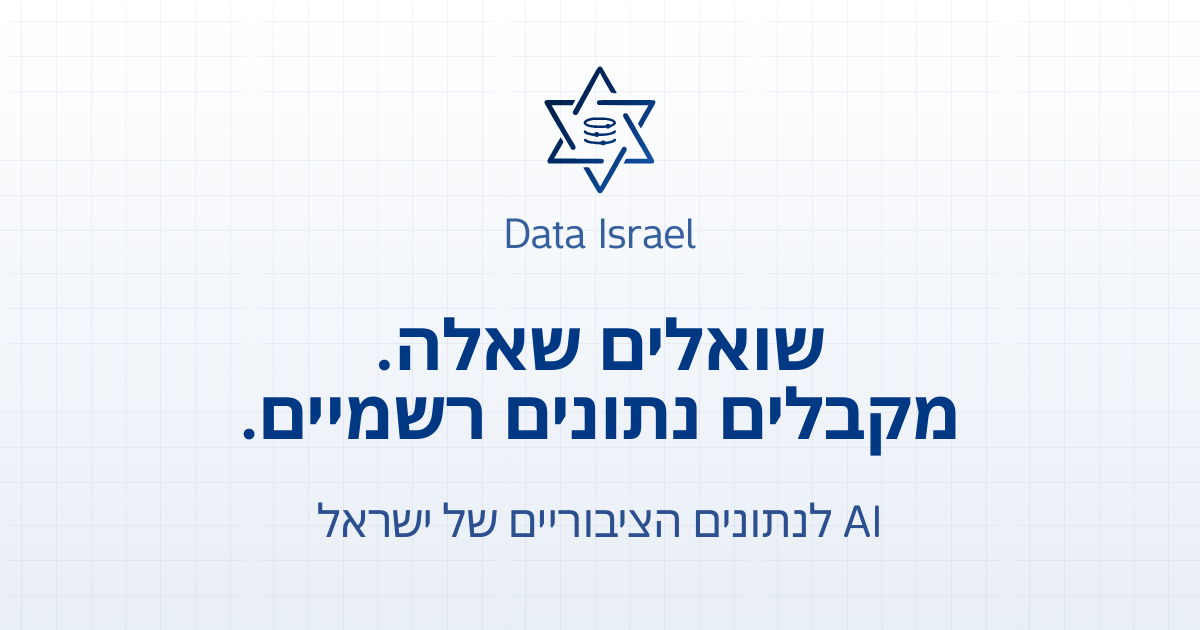
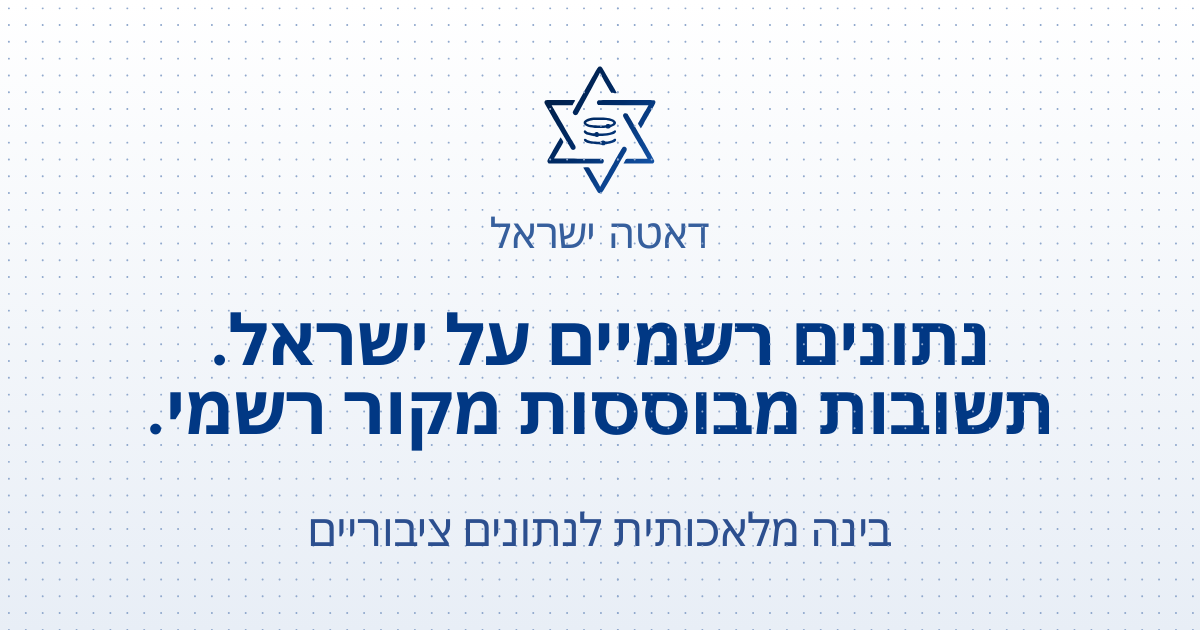
update: rename Data Israel to דאטה ישראל across UI and misc improvements
- Replace all user-facing "Data Israel" text with "דאטה ישראל"
- Update OG title and siteName to Hebrew
- Add sub-agent debug logging in dev mode
- Add AI SDK devtools in development
- Minor code cleanup in chat route

Changed region(s): [[0.1233, 0.4825, 0.8942, 0.7238], [0.2467, 0.7841, 0.74, 0.8746], [0.4008, 0.3317, 0.5858, 0.3921]]

diff --git a/app/api/chat/route.ts b/app/api/chat/route.ts
@@ -20,7 +20,7 @@ import {
     isToolPart,
     type ToolCallPart,
 } from '@/components/chat/types';
-import { getResumableStreamContext, setActiveStreamId, clearActiveStreamId } from '@/lib/redis/resumable-stream';
+import { clearActiveStreamId, getResumableStreamContext, setActiveStreamId } from '@/lib/redis/resumable-stream';
 
 const { CHAT } = AgentConfig;
 
@@ -54,11 +54,7 @@ const hasCompletedWithSuggestions: StopCondition<any> = ({ steps }) => {
     if (!hasTextResponse) return false;
 
     // Condition 2: suggestFollowUps must have been called in some step
-    const calledSuggestions = steps.some((step) =>
-        step.toolCalls?.some((tc: { toolName: string }) => tc.toolName === CHAT.SUGGEST_TOOL_NAME),
-    );
-
-    return calledSuggestions;
+    return steps.some((step) => step.toolCalls?.some((tc) => tc.toolName === CHAT.SUGGEST_TOOL_NAME));
 };
 
 /**
@@ -274,7 +270,20 @@ export async function POST(req: Request) {
             defaultOptions: {
                 toolCallConcurrency: CHAT.TOOL_CALL_CONCURRENCY,
                 stopWhen: hasCompletedWithSuggestions,
-                onStepFinish: ({ usage, toolCalls, text, stepType }) => {
+                onStepFinish: ({ usage, toolResults }) => {
+                    // Debug: log sub-agent delegation results
+                    if (process.env.NODE_ENV === 'development') {
+                        for (const tr of toolResults) {
+                            const { toolName, result } = tr.payload;
+                            if (toolName.startsWith('agent-')) {
+                                console.log(
+                                    `\n[debug] Sub-agent "${toolName}" result:`,
+                                    JSON.stringify(result, null, 2),
+                                );
+                            }
+                        }
+                    }
+
                     // Context snapshot: override (last step = context window size)
                     contextSnapshot.inputTokens = usage.inputTokens ?? 0;
                     contextSnapshot.outputTokens = usage.outputTokens ?? 0;

diff --git a/components/chat/ChatThread.tsx b/components/chat/ChatThread.tsx
@@ -18,6 +18,7 @@ import { MessageListSkeleton } from '@/components/chat/MessageListSkeleton';
 import { LoadingShimmer } from '@/components/chat/LoadingShimmer';
 import { ContextWindowIndicator } from '@/components/chat/ContextWindowIndicator';
 import { GeometricBackground } from '@/components/ui/shape-landing-hero';
+import { AIDevtools } from '@ai-sdk-tools/devtools';
 import { useSessionStorage } from '@/hooks/use-session-storage';
 import { INITIAL_MESSAGE_KEY, type InitialMessageData } from '@/constants/chat';
 import { useUser } from '@/context/UserContext';
@@ -134,11 +135,13 @@ export function ChatThread({ id }: ChatThreadProps) {
         return { suggestions: undefined, loading: false };
     }, [lastAssistantMessage]);
 
+    console.log({ messages });
+
     return (
         <div className='relative h-full w-full'>
             <GeometricBackground noShapes />
 
-            <div className='mx-auto px-4 md:px-0 pb-4 md:pb-6 relative h-full w-full pt-14 md:pt-4'>
+            <div className='mx-auto px-4 md:px-0 pb-4 md:pb-6 relative h-full w-full pt-14 md:pt-6'>
                 <div className='flex flex-col gap-4 md:gap-6 h-full w-full items-center'>
                     {isLoading && !isNewConversation ? (
                         <div className='flex-1 w-full md:w-4xl mx-auto overflow-hidden'>
@@ -186,6 +189,22 @@ export function ChatThread({ id }: ChatThreadProps) {
                     </div>
                 </div>
             </div>
+
+            {process.env.NODE_ENV === 'development' && (
+                <AIDevtools
+                    enabled
+                    maxEvents={1000}
+                    config={{
+                        position: 'bottom',
+                        height: 400,
+                        streamCapture: {
+                            enabled: true,
+                            endpoint: '/api/chat',
+                            autoConnect: true,
+                        },
+                    }}
+                />
+            )}
         </div>
     );
 }

diff --git a/app/layout.tsx b/app/layout.tsx
@@ -24,7 +24,7 @@ const VERSION = process.env.VERCEL_GIT_COMMIT_SHA?.slice(0, 8) ?? Date.now().toS
 
 export async function generateMetadata(): Promise<Metadata> {
     const siteUrl = process.env.NEXT_PUBLIC_SITE_URL ?? 'https://data-israel.org';
-    const title = 'Data Israel — AI לנתונים הציבוריים של ישראל';
+    const title = 'דאטה ישראל - בינה מלאכותית לנתונים הציבוריים של ישראל';
     const description =
         'שואלים שאלה בעברית ומקבלים תשובה מבוססת נתונים רשמיים. מערכת AI המחוברת למאגרים ציבוריים של ישראל, עם גרפים, טבלאות ושקיפות למקורות.';
     const ogImage = `/og.png?v=${VERSION}`;
@@ -38,14 +38,14 @@ export async function generateMetadata(): Promise<Metadata> {
             url: siteUrl,
             title,
             description,
-            siteName: 'Data Israel',
+            siteName: 'דאטה ישראל',
             locale: 'he_IL',
             images: [
                 {
                     url: ogImage,
                     width: 1200,
                     height: 630,
-                    alt: 'סוכני המידע הציבורי - AI למידע הפתוח של ישראל',
+                    alt: 'סוכני המידע הציבורי - בינה מלאכותית למידע הפתוח של ישראל',
                     type: 'image/png',
                 },
             ],

diff --git a/components/landing/AboutSection.tsx b/components/landing/AboutSection.tsx
@@ -68,7 +68,7 @@ export function AboutSection() {
                     קיים, אבל לרוב אינו נגיש באמת לאזרח הרגיל.
                 </p>
                 <p className='text-base md:text-lg text-muted-foreground leading-relaxed max-w-2xl'>
-                    <strong className='text-foreground'>Data Israel</strong> היא רשת של סוכני AI שעובדים יחד כדי לחבר
+                    <strong className='text-foreground'>דאטה ישראל</strong> היא רשת של סוכני AI שעובדים יחד כדי לחבר
                     שאלות יומיומיות למאגרי המידע הציבוריים של ישראל.
                 </p>
                 <p className='text-base md:text-lg text-muted-foreground leading-relaxed max-w-2xl'>

diff --git a/components/navigation/AppSidebar.tsx b/components/navigation/AppSidebar.tsx
@@ -46,7 +46,7 @@ function SidebarLogo() {
                 <SidebarMenuButton size='lg' className='gap-4 [&>svg]:size-5' onClick={handleClick}>
                     <Logo className='size-10 shrink-0' width={20} aria-label='לוגו' />
                     <div className='grid flex-1 text-right text-sm leading-tight'>
-                        <span className='truncate font-semibold'>Data Israel</span>
+                        <span className='truncate font-semibold'>דאטה ישראל</span>
                         <span className='truncate text-xs text-muted-foreground'>AI לנתונים הציבוריים של ישראל</span>
                     </div>
                 </SidebarMenuButton>

diff --git a/components/chat/HeroSection.tsx b/components/chat/HeroSection.tsx
@@ -36,7 +36,7 @@ export function HeroSection({ onStartConversation, onScrollToAbout }: HeroSectio
                 animate='visible'
             >
                 <Logo width={isMobile ? 80 : 130} aria-label='DataGov Logo' />
-                <h1 className='text-primary dark:text-logo-gradient-end font-bold text-xl md:text-2xl'>Data Israel</h1>
+                <h1 className='text-primary dark:text-logo-gradient-end font-bold text-xl md:text-2xl'>דאטה ישראל</h1>
             </motion.div>
             <div className='flex-shrink-0 flex flex-col items-center gap-16 md:gap-24 4xl:gap-20'>
                 <div className='flex flex-col gap-2'>

diff --git a/components/landing/Footer.tsx b/components/landing/Footer.tsx
@@ -8,7 +8,7 @@ export function Footer() {
     return (
         <footer className='w-full border-t border-border/40 bg-card/40 backdrop-blur-sm'>
             <div className='max-w-4xl mx-auto px-4 py-4 flex flex-col md:flex-row items-center justify-between gap-4 text-sm text-muted-foreground'>
-                <span>&copy; {year} Data Israel. כל הזכויות שמורות.</span>
+                <span>&copy; {year} דאטה ישראל. כל הזכויות שמורות.</span>
 
                 <div className='flex items-center gap-4'>
                     <a

diff --git a/lib/env.ts b/lib/env.ts
@@ -10,7 +10,7 @@ export const EnvSchema = z.object({
     // AI Configuration
     // =======================
     OPENROUTER_API_KEY: z.string(),
-    AI_DEFAULT_MODEL_ID: z.string().default('google/gemini-3-flash-preview'),
+    AI_DEFAULT_MODEL_ID: z.string().default('qwen/qwen3.5-35b-a3b'),
     AI_MAX_STEPS: z.coerce.number().int().min(1).default(25),
     AI_TOOL_CALL_CONCURRENCY: z.coerce.number().int().min(1).default(10),
 

diff --git a/CLAUDE.md b/CLAUDE.md
@@ -101,6 +101,33 @@ agents/                       # Mastra agent network
     ├── datagov/              # DataGov sub-agent (16 tools, data.gov.il CKAN API)
     └── cbs/                  # CBS sub-agent (9 tools, Central Bureau of Statistics)
 
+constants/                    # Application constants
+├── agents-display.ts         # Agent display configurations
+├── chat.ts                   # Chat constants
+├── datagov-urls.ts           # data.gov.il URL patterns
+├── prompts.ts                # AI system prompts
+├── tool-data-sources.ts      # Tool → data source mappings
+└── tool-translations.tsx     # Hebrew tool name translations
+
+context/                      # React context providers
+├── ConvexClientProvider.tsx   # Convex client wrapper
+├── QueryClientProvider.tsx    # TanStack Query provider
+├── ThemeProvider.tsx          # Theme (dark/light) provider
+└── UserContext.tsx            # User session context
+
+hooks/                        # Custom React hooks
+├── use-guest-session.ts      # Guest session management
+├── use-mobile.ts             # Mobile breakpoint detection
+├── use-threads-data.ts       # Thread listing/management
+└── ...                       # Additional utility hooks
+
+services/                     # Service layer
+└── thread.service.ts         # Thread CRUD operations
+
+scripts/                      # Data sync utilities
+├── fetch-all-datasets.ts     # Fetch all datasets from data.gov.il
+└── sync-to-convex.ts         # Sync datasets to Convex
+
 lib/
 ├── tools/
 │   ├── datagov/              # 16 data.gov.il tools (search, details, schema, etc.)
@@ -109,6 +136,7 @@ lib/
 ├── api/
 │   ├── data-gov/             # CKAN API client (data.gov.il)
 │   └── cbs/                  # CBS API client
+├── redis/                    # Redis/Upstash rate limiting & caching
 └── convex/                   # Convex client utilities
 
 convex/                       # Convex backend
@@ -131,12 +159,14 @@ components/
 │   ├── HeroSection.tsx       # Landing hero with CTA buttons
 │   ├── MessageItem.tsx       # Message renderer (source URL dedup by URL + title)
 │   └── Suggestions.tsx       # Follow-up suggestion chips (horizontal scroll mobile, vertical desktop)
+├── threads/                  # Thread list and management components
 ├── landing/
 │   ├── AboutSection.tsx      # About section
 │   ├── SourcesSection.tsx    # Data sources section (replaced StatsSection)
 │   ├── HowItWorksSection.tsx # How-it-works steps
 │   ├── ExampleOutputsSection.tsx
 │   └── Footer.tsx            # Footer with copyright
+├── ai-elements/              # AI UI elements (DO NOT modify unless instructed)
 └── ui/                       # shadcn/ui primitives (DO NOT modify unless instructed)
 
 spec/
@@ -238,8 +268,31 @@ Key types in `components/chat/types.ts`:
 - **Vector search**: `ConvexVector` on routing agent for semantic recall (topK: 3)
 - **Thread management**: UUID-based, passed from frontend via `memory: { thread, resource }`
 - **Convex deployment**: `decisive-alpaca-889.convex.cloud`
-- **Env vars**: `NEXT_PUBLIC_CONVEX_URL`, `CONVEX_ADMIN_KEY`
 - **Graceful fallback**: If Convex env vars are missing, storage/vector are disabled (in-memory only)
+
+### Integrations
+
+- **Authentication**: Clerk (sign-in/sign-up flows, user context via `UserContext.tsx`)
+- **Error tracking**: Sentry (client/server/edge configs in root, `instrumentation.ts` for Next.js)
+- **Rate limiting/caching**: Redis via Upstash (`lib/redis/`)
+- **Code formatting**: Prettier (`.prettierrc`), shadcn config (`components.json`)
+
+### Environment Variables
+
+Key env vars (see `.env.example` for base set):
+
+| Variable | Purpose |
+|----------|---------|
+| `OPENROUTER_API_KEY` | OpenRouter API access |
+| `AI_DEFAULT_MODEL_ID` | Default model (e.g., `google/gemini-3-flash-preview`) |
+| `NEXT_PUBLIC_CONVEX_URL` | Convex deployment URL |
+| `CONVEX_ADMIN_KEY` | Convex admin access |
+| `NEXT_PUBLIC_CLERK_PUBLISHABLE_KEY` | Clerk auth (public) |
+| `CLERK_SECRET_KEY` | Clerk auth (server) |
+| `UPSTASH_REDIS_REST_URL` | Upstash Redis endpoint |
+| `UPSTASH_REDIS_REST_TOKEN` | Upstash Redis token |
+| `NEXT_PUBLIC_SENTRY_DSN` | Sentry error tracking |
+| `SENTRY_AUTH_TOKEN` | Sentry source maps upload |
 
 ### Path Aliases
 The project uses `@/*` to reference files from the root:
